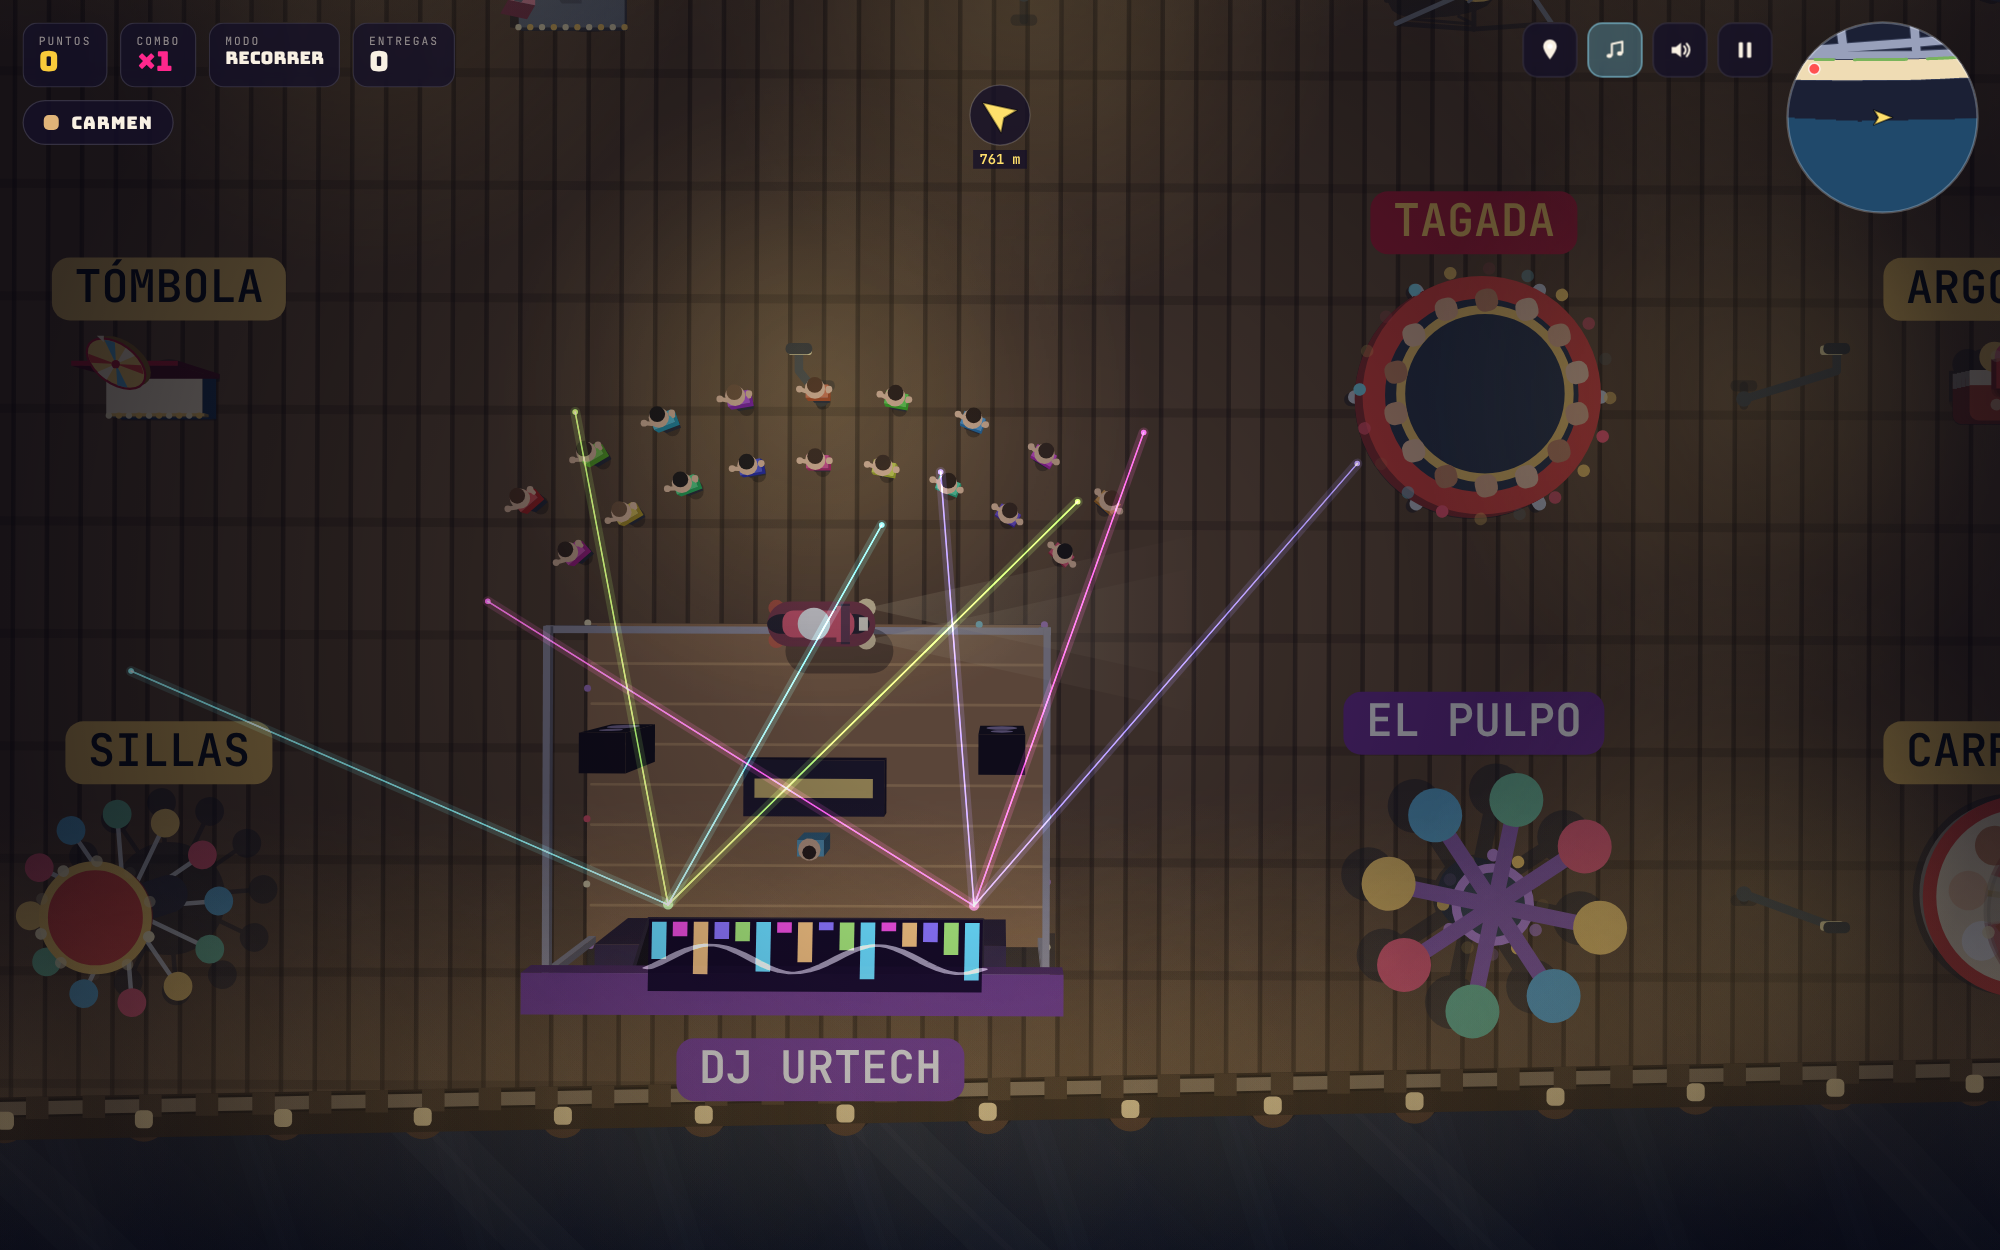
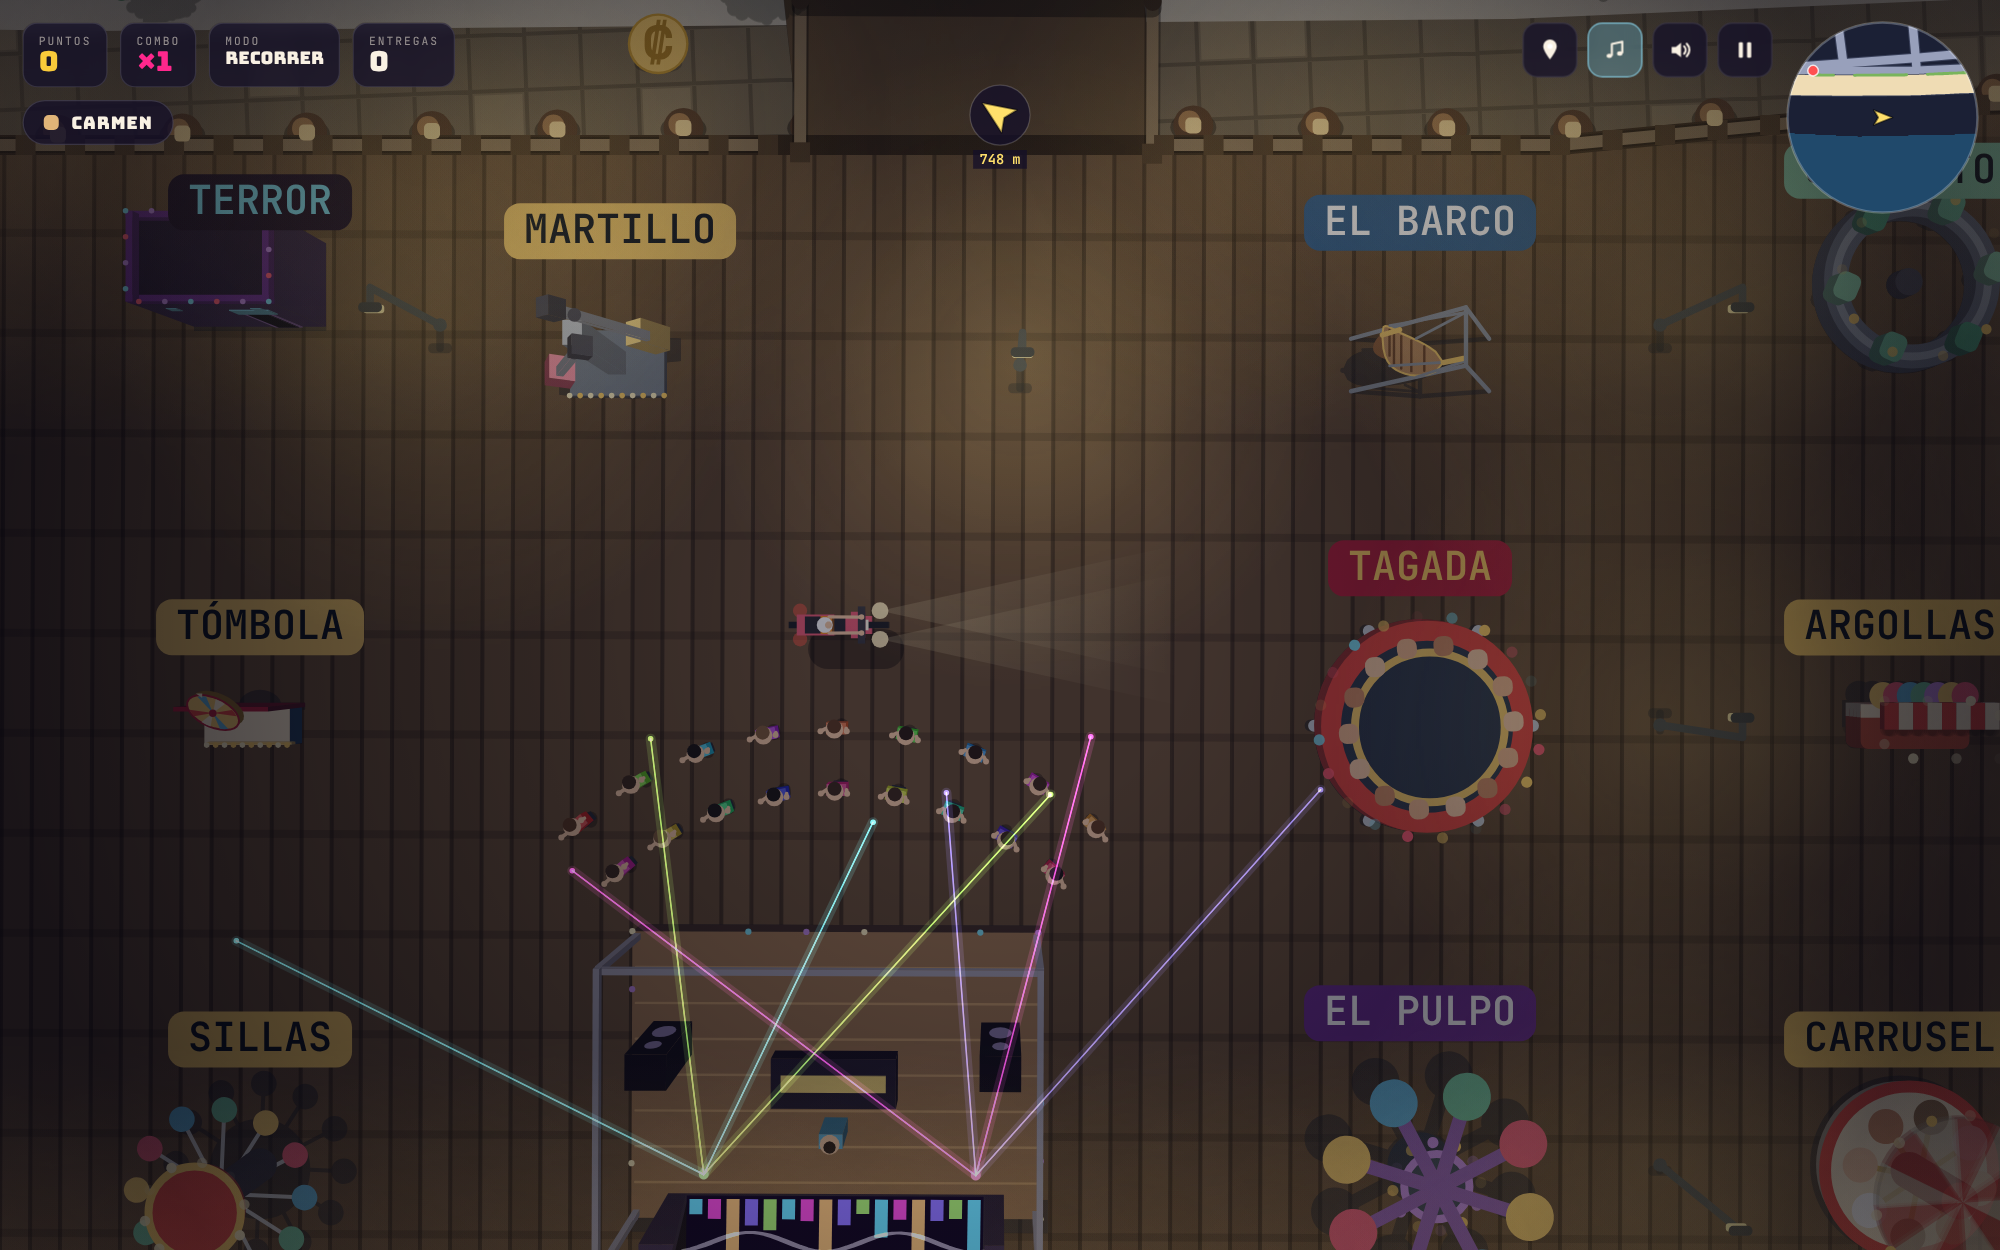
feat(render): vehículos del jugador en 3D con su chofer; bañistas en las piscinas del faro
- vehicles.json: receta de cajas (body3d) para bici, scooter, tuktuk, carrito,
  pickup y kart, y un chofer (driver + driver3d) en los nueve: la misma gente en
  3D, sentada o de pie, con las manos en el manubrio o el timón y casco en las
  motos y el kart. Las lanchas conservan su casco con costado y llevan chofer.
- Bañistas en la piscina grande y la de niños del balneario del faro
  (simulation.json → puntaPools): nadan dentro del contorno y fuera del islote.
- Las luminarias de la feria guardan distancia también del público del DJ.
- Hoja: tools/shot-player3d.mjs.

Claude-Session: https://claude.ai/code/session_018GSydgtbAbdgpJPFkJ2EAM

diff --git a/src/render/c2d/entities.js b/src/render/c2d/entities.js
@@ -18,7 +18,8 @@ import { actorAnimationValues, paintActor, paintActorForm, resolveActorRecord } 
 import { VEHICLE_MEDIUM } from "../../domain/vocabulary.generated.js";
 import { ctx, lastT, mixColor } from "./gfx.js";
 import ACTORS from "../../assets/actors.json" with { type: "json" };
-import { paintPerson3d } from "./people3d.js";
+import { paintPerson3d, paintRider } from "./people3d.js";
+import VEHICLE_REG from "../../assets/vehicles.json" with { type: "json" };
 import { makeRig } from "./rig3d.js";
 import { hullOutline, paintHullSides } from "./vesselRigs.js";
 import PRODUCTS_JSON from "../../../content/world/products.json" with { type: "json" };
@@ -216,12 +217,28 @@ function drawCar(c) {
   ctx.restore();
   const ppm = PX_PER_M, hwM = hw / ppm, hhM = hh / ppm;
   const R = makeRig(ctx, c.x, c.y, angle, ppm, state.cam, "cam", V3D.shade, heightM);
-  for (const b of kind.body3d || []) {
-    // lo pegado a una cara sólo existe si esa cara mira a la cámara
+  rigBoxes(R, kind.body3d || [], hwM, hhM, color);
+  R.flush();
+}
+
+/** Una receta de cajas (`body3d`) sobre el aparejo: `at`/`size` en fracciones del vehículo, `z` en
+ *  metros, y lo pegado a una cara sólo si esa cara mira a la cámara. La comparten el tráfico y el
+ *  vehículo del jugador. */
+function rigBoxes(R, recipe, hwM, hhM, color) {
+  for (const b of recipe) {
     if (b.face && !R.faces([b.at[0] * hwM, b.at[1] * hhM, (b.z[0] + b.z[1]) / 2], [b.face[0], b.face[1], 0])) continue;
     const ink = { top: color(b.top || b.ink), side: color(b.side || b.ink) };
     R.at(b.key ?? b.z[1], () => R.box(b.at[0] * hwM, b.at[1] * hhM, b.z[0], b.z[1], b.size[0] * 2 * hwM, b.size[1] * 2 * hhM, ink));
   }
+}
+
+/** El vehículo del jugador EN 3D: su receta de cajas y su chofer, donde está el carro (x, y). */
+function paintPlayer3d(x, y, a, veh, { body = true, rider = true } = {}) {
+  const ppm = PX_PER_M, hwM = veh.w / 2 / ppm, hhM = veh.h / 2 / ppm;
+  const R = makeRig(ctx, x, y, a, ppm, state.cam, "cam", V3D.shade, (veh.heightM || 1.5) + 1.5);
+  const ink = (spec) => partColor(spec, veh);
+  if (body && veh.body3d) rigBoxes(R, veh.body3d, hwM, hhM, ink);
+  if (rider && veh.driver) paintRider(R, veh.driver, VEHICLE_REG.driver3d, ink, hwM, hhM);
   R.flush();
 }
 
@@ -528,7 +545,20 @@ function drawPlayer(p, veh, { body = true } = {}) {
     if (effect.layer === "under") EFFECT_PAINTERS[id]?.paint?.(p, veh, cfg);
   }
   if (!body) { ctx.restore(); return; }
-  { const [ux, uy] = screenUp(lift); ctx.translate(p.x + ux, p.y + uy); } ctx.rotate(p.a);
+  const [ux, uy] = screenUp(lift);
+  // UN VEHÍCULO CON RECETA 3D es su receta de cajas y su chofer; la carga va donde va (`cargoM`)
+  if (veh.body3d) {
+    ctx.restore();
+    paintPlayer3d(p.x + ux, p.y + uy, p.a, veh);
+    if (state.carrying) {
+      ctx.save(); ctx.translate(p.x + ux, p.y + uy); ctx.rotate(p.a);
+      const ro = bodyLift(p, veh, veh.cargoM); ctx.translate(ro[0], ro[1]);
+      drawCarriedCargo(ctx, state.vehicleKey, veh, state.carrying);
+      ctx.restore();
+    }
+    return;
+  }
+  ctx.translate(p.x + ux, p.y + uy); ctx.rotate(p.a);
   for (const { id, effect, cfg } of effects) {
     if (effect.layer === "transform") EFFECT_PAINTERS[id]?.transform?.(p, veh, cfg);
   }
@@ -541,11 +571,13 @@ function drawPlayer(p, veh, { body = true } = {}) {
   paintVehicle(ctx, state.vehicleKey, veh);
   if (state.carrying) drawCarriedCargo(ctx, state.vehicleKey, veh, state.carrying);
   ctx.restore();
+  // y su chofer, sobre la cubierta levantada (las lanchas no tienen receta de cajas: su casco es su arte)
+  if (veh.driver) paintPlayer3d(p.x + ux, p.y + uy, p.a, veh, { body: false });
 }
 
 /** El corrimiento de la tapa de un vehículo de `heightM`, ya en SU marco (girado `p.a`). */
-function bodyLift(p, veh) {
-  const h = veh.heightM ?? V3D.defaultHeightM;
+function bodyLift(p, veh, heightM = null) {
+  const h = heightM ?? veh.heightM ?? V3D.defaultHeightM;
   const o = parallaxOffset(state.cam, p.x, p.y, h, PX_PER_M);
   const c = Math.cos(-p.a), s = Math.sin(-p.a);
   return [o.dx * c - o.dy * s, o.dx * s + o.dy * c];
@@ -571,7 +603,7 @@ function drawPlayerCarrying(p, veh) {
   const lift = (state.elev || 0) * 7;
   ctx.save();
   { const [ux, uy] = screenUp(lift); ctx.translate(p.x + ux, p.y + uy); } ctx.rotate(p.a);
-  { const ro = bodyLift(p, veh); ctx.translate(ro[0], ro[1]); }
+  { const ro = bodyLift(p, veh, veh.cargoM); ctx.translate(ro[0], ro[1]); }
   drawCarriedCargo(ctx, state.vehicleKey, veh, state.carrying);
   ctx.restore();
 }

diff --git a/src/game/spawns.js b/src/game/spawns.js
@@ -702,6 +702,50 @@ function maintainBalneario() {
     });
   }
 }
+// LAS PISCINAS DEL FARO. Su agua no es agua del ráster —es una lámina dibujada sobre la explanada—,
+// así que el bañista no pregunta a `surfaceAt` sino al CONTORNO de su piscina (`W.PUNTA.pools`), con
+// el cuerpo entero adentro y FUERA de los islotes (`W.PUNTA.islands`: el macetero de palmeras), igual
+// que `swimmerWater` hace en el Balneario Municipal.
+function poolWater(pool, x, y) {
+  const r = SWIM_R, P = pool.pts;
+  const wet = (px, py) => inPoly(px, py, P) && !(W.PUNTA.islands || []).some((I) => inPoly(px, py, I.pts));
+  return wet(x, y) && wet(x + r, y) && wet(x - r, y) && wet(x, y + r) && wet(x, y - r);
+}
+function maintainPuntaPools() {
+  const pools = W.PUNTA?.pools;
+  if (!pools) return;
+  const C = SIM.crowds.puntaPools, ppm = W.PX_PER_M;
+  for (const pool of pools) {
+    if (pool.zone || !pool.pts || pool.pts.length < 6) continue;
+    if (!pool._box) {
+      let x0 = Infinity, y0 = Infinity, x1 = -Infinity, y1 = -Infinity, a = 0;
+      const P = pool.pts, n = P.length;
+      for (let i = 0; i < n; i += 2) {
+        x0 = Math.min(x0, P[i]); x1 = Math.max(x1, P[i]); y0 = Math.min(y0, P[i + 1]); y1 = Math.max(y1, P[i + 1]);
+        const j = (i + 2) % n; a += P[i] * P[j + 1] - P[j] * P[i + 1];
+      }
+      const m2 = Math.abs(a) / 2 / (ppm * ppm);
+      pool._box = { x0, y0, x1, y1, cx: (x0 + x1) / 2, cy: (y0 + y1) / 2,
+        want: Math.max(C.min, Math.min(C.max, Math.round(m2 / C.areaPerSwimmerM2))) };
+    }
+    const B = pool._box;
+    if (Math.hypot(B.cx - _cam.x, B.cy - _cam.y) > SPAWN_R + 400) continue;
+    let n = 0;
+    for (const pe of pedestrians) if (pe.pool === pool) n++;
+    let guard = 0;
+    while (n < B.want && guard++ < B.want * 12) {
+      const x = B.x0 + Math.random() * (B.x1 - B.x0), y = B.y0 + Math.random() * (B.y1 - B.y0);
+      if (!poolWater(pool, x, y)) continue;
+      pedestrians.push({
+        x, y, ang: Math.random() * Math.PI * 2, v: npcSpeed("swimmer"),
+        hue: (Math.random() * 360) | 0, ph: Math.random() * Math.PI * 2,
+        pool, swim: true, kind: "swimmer",
+      });
+      n++;
+    }
+  }
+}
+
 // Advance a swimmer: slow drift that stays on ACTUAL water (SURFACE.WATER),
 // so it follows the inlet's real shape instead of the rectangular bbox — no
 // more swimmers wandering onto the streets at the block corners.
@@ -717,7 +761,7 @@ export function advanceSwimmer(pe, dt) {
   pe.ph += dt * 4;
   const nx = pe.x + Math.cos(pe.ang) * pe.v * dt;
   const ny = pe.y + Math.sin(pe.ang) * pe.v * dt;
-  if (swimmerWater(nx, ny)) { pe.x = nx; pe.y = ny; }
+  if (pe.pool ? poolWater(pe.pool, nx, ny) : swimmerWater(nx, ny)) { pe.x = nx; pe.y = ny; }
   else pe.ang += Math.PI * (0.6 + Math.random() * 0.8);   // hit the shore → turn back into the water
   if (Math.random() < 0.02) pe.ang += (Math.random() - 0.5) * 0.8;
 }
@@ -837,6 +881,7 @@ export function maintainStreaming() {
   topUp(traffic, TARGET.traffic, spawnOneCar, (e) => e.dead || (!e.persistent && far(e)));
   maintainStadiumPeds();
   maintainBalneario();
+  maintainPuntaPools();
   maintainPierFishers();
   maintainFeriaAudience();
   maintainSurfaceCrowds();

diff --git a/src/render/c2d/people3d.js b/src/render/c2d/people3d.js
@@ -111,3 +111,32 @@ export function paintPerson3d(pe, look = {}) {
   if (look.hat) { disc(0, 0, zh + 0.08, hr * 1.6, look.hat.brim); disc(0, 0, zh + 0.16, hr * 0.85, look.hat.crown); }
   else disc(-hr * 0.35, 0, zh + 0.06, hr * 0.78, S.hair[Math.floor(hash01(hue * 0.13 + 3.1) * S.hair.length)]);
 }
+
+/**
+ * EL CHOFER, sobre el aparejo de `rig3d.js` (`R`, en el marco del vehículo, metros): la misma gente
+ * que camina por el puerto, sentada en `d.at` con el asiento a `d.seatM` y las manos en `d.hands`.
+ * `D` es el registro del chofer (`vehicles.json → driver3d`); `ink` resuelve `$color`/`$roof`.
+ */
+export function paintRider(R, d, D, ink, hwM, hhM) {
+  const k = d.scale || 1, u = d.at[0] * hwM, v = d.at[1] * hhM, z0 = d.seatM;
+  const [td, tw, th] = D.torsoM.map((x) => x * k), hr = D.headM * k;
+  const zl = d.standing ? D.legsM[2] * k : 0;
+  if (d.standing) R.at(z0 + zl, () => R.box(u, v, z0, z0 + zl, D.legsM[0] * k, D.legsM[1] * k, D.pants));
+  const zt = z0 + zl, zs = zt + th, zh = zs + hr * 0.9;
+  R.at(zs, () => R.box(u, v, zt, zs, td, tw, D.shirt));
+  if (d.hands) {
+    const [hu, hv, hz] = d.hands;
+    R.at(zs + 0.01, () => {
+      for (const s of [-1, 1]) {
+        const hand = [hu * hwM, s * hv * hhM, hz];
+        R.line([[u + td * 0.2, v + s * tw * 0.45, zs - 0.12], hand], D.armM * k, D.skin);
+        R.dot(hand, D.armM * k * 0.8, D.skin);
+      }
+    });
+  }
+  R.at(zh + hr, () => {
+    R.poly(R.circle([u, v, zh], [1, 0, 0], [0, 1, 0], hr, 14), d.helmet ? ink(d.helmet) : D.skin);
+    if (!d.helmet) R.poly(R.circle([u - hr * 0.3, v, zh + 0.06], [1, 0, 0], [0, 1, 0], hr * 0.78, 12), D.hair);
+    else R.poly(R.circle([u + hr * 0.45, v, zh - 0.05], [1, 0, 0], [0, 1, 0], hr * 0.45, 10), D.skin);
+  });
+}

diff --git a/src/render/c2d/attractions.js b/src/render/c2d/attractions.js
@@ -36,6 +36,8 @@ import { registerLampSource } from "./nightlights.js";
 import { paintLight } from "./lights.js";
 import { FERIA_SHAPES } from "./feriaShapes.js";
 import ASSETS from "./feriaAssets.json";
+import SIM from "../../content/simulation.json" with { type: "json" };
+const AUDIENCE = SIM.crowds.feriaAudience;
 
 // LOS VALORES POR OMISIÓN Y EL DECORADO DEL CAMPO. Distinto del resto de las
 // paletas del juego, y vale decir por qué: acá los JUEGOS ya eran data desde
@@ -379,7 +381,8 @@ function feriaAreaLights() {
       const a = row[i], b = row[i + 1];
       const x = (a.x + b.x) / 2, y = (a.y + b.y) / 2;
       if (x - a.x < a.r + clearance || b.x - x < b.r + clearance) continue;
-      if (dj && Math.hypot(x - dj.x, y - dj.y) < dj.r + clearance * 2) continue;
+      // ni sobre la tarima ni entre su público: el hueco llega hasta la última fila (`feriaAudience`)
+      if (dj && Math.hypot(x - dj.x, y - dj.y) < dj.r * (AUDIENCE.firstRowK + AUDIENCE.rowGapK) + clearance * 2) continue;
       if (entrance && Math.abs(x - entrance.x) < entrance.w / 2 + clearance
         && Math.abs(y - entrance.y) < clearance * 2) continue;
       areaLights.push({ x, y, type: "warm", intensity: LIGHTING.areaIntensity });

diff --git a/src/game/vehicles.js b/src/game/vehicles.js
@@ -55,6 +55,9 @@ export const VEHICLES = Object.fromEntries(
     w: v.w,
     h: v.h,
     heightM: v.heightM,
+    body3d: v.body3d,
+    driver: v.driver,
+    cargoM: v.cargoM,
     kind: v.kind,
     medium: v.medium,
   }]),

diff --git a/CLAUDE.md b/CLAUDE.md
@@ -64,7 +64,7 @@ The procedure is three steps and it is not optional:
 | **el GRANO de una superficie** — la arena, el árido, la brizna, el desgaste del zinc | `src/assets/materials.json` → `textures` (verbos: `c2d/materials.js`) |
 | a length two runtimes must agree about, IN METRES | `src/assets/world-units.json` |
 | **un largo que UN registro autora** (un `dx`, un ancho, el radio de un juego) | en METROS y en su propio registro, con sufijo `M` — `content.py` → `METRE_KEYS` lo pasa a px al cargar. **Nunca en píxeles**: sólo son verdad a la escala en que se afinaron, y este mundo lleva cuatro reescalados |
-| the player's vehicles (parts, stats, cargo) | `src/assets/vehicles.json` |
+| the player's vehicles (parts, stats, cargo) | `src/assets/vehicles.json` — **en 3D**: `body3d` (cajas, como el tráfico), `driver` (el chofer: `driver3d` + `c2d/people3d.js → paintRider`), `heightM`, `cargoM`. Hoja: `node tools/shot-player3d.mjs` |
 | **the traffic, the crowd, boats, coins, the carried cargo** | `src/assets/actors.json` — **en 3D**: la gente es `person3d` (`c2d/people3d.js`), el tráfico es `traffic.kinds.<tipo>.body3d` + `vehicle3d` (cajas sobre `c2d/rig3d.js`; lo pegado a una cara lleva `face`), y el casco de cualquier barco toma costado con `vehicle3d.hullSide` (`c2d/vesselRigs.js`). El jugador se levanta a `heightM` de `vehicles.json`; el ferry es `materials.json → structure.ferry.model`. Hoja: `node tools/shot-traffic3d.mjs`; el juego vivo: `node tools/shot-live.mjs` |
 | **a light: street lamp, stadium tower, la del muelle** | `src/assets/lights.json` (+ `LightType`). DÓNDE se para la del muelle y de qué tipo es → `materials.json` → `pier.<style>.lamp` · **cómo se para en 2.5D** (alto, brazo a la calzada, cabeza vista desde arriba) → `stand25` en cada tipo y `stand` |
 | **de qué color es un edificio de OSM** | `src/assets/building-styles.json`, por `cat` |
